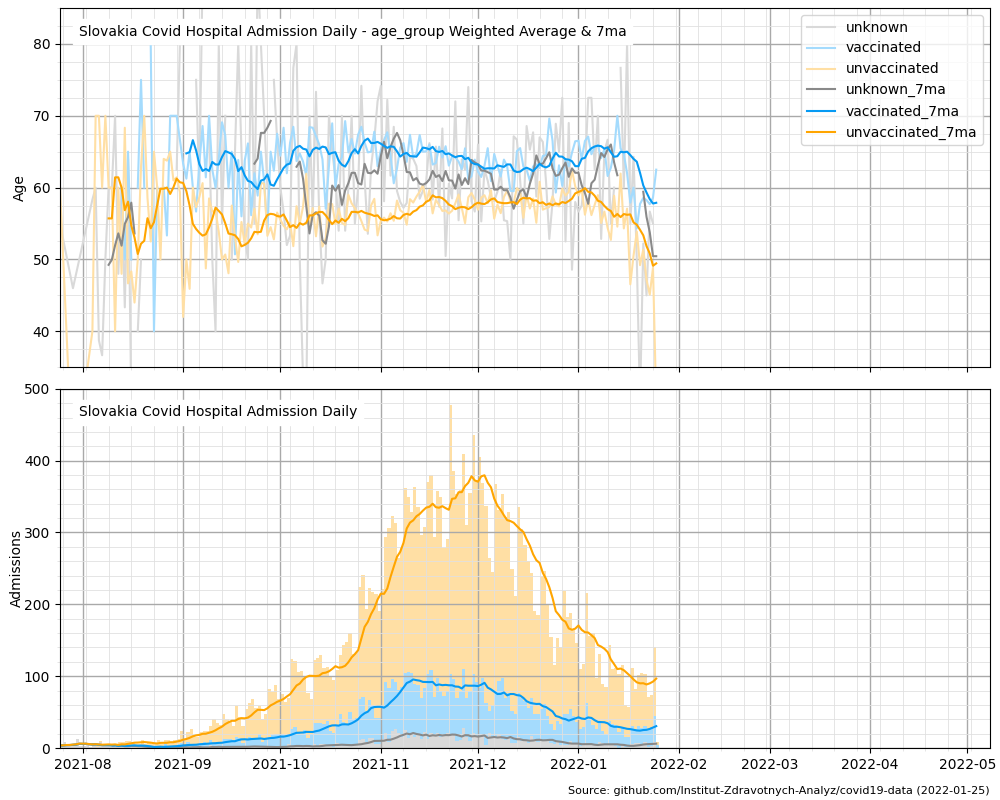
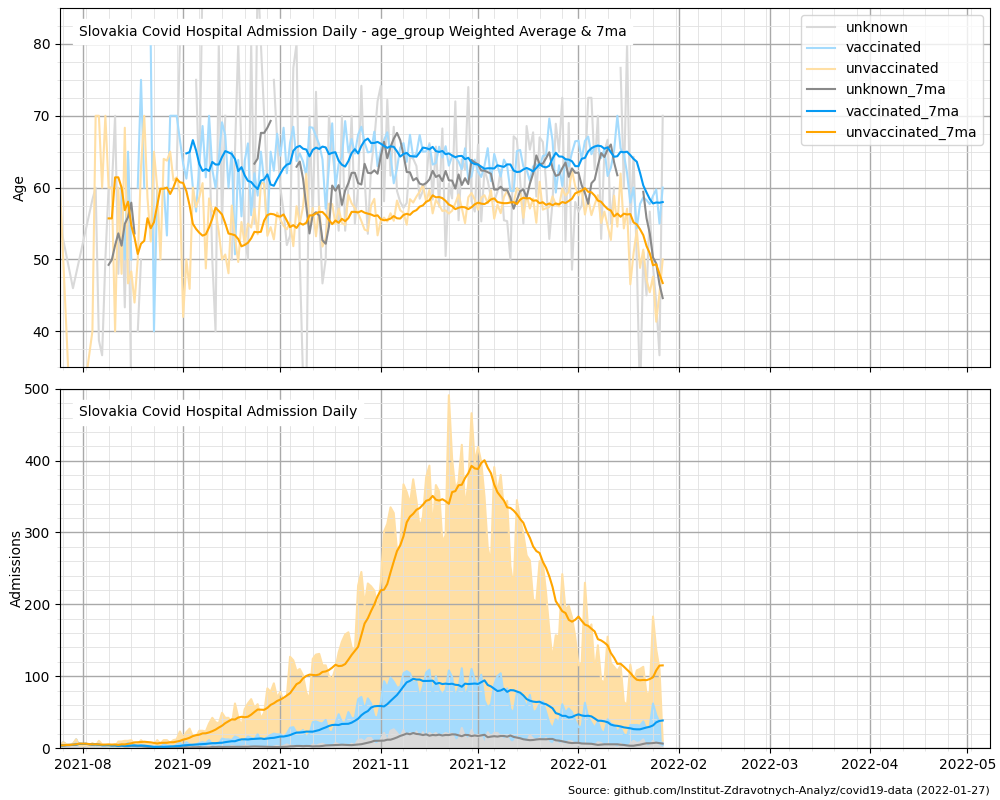
Update 2022-01-28 Tweaked Hospitalizations/Admissions_Age_WAverage_by_Vaccine_Daily.py Updated figures

Changed region(s): [[0.155, 0.5, 0.682, 0.9375], [0.651, 0.3125, 0.682, 0.4375], [0.651, 0.2188, 0.682, 0.2812]]

diff --git a/Hospitalizations/Admissions_Age_WAverage_by_Vaccine_Daily.py b/Hospitalizations/Admissions_Age_WAverage_by_Vaccine_Daily.py
@@ -32,8 +32,9 @@ if is_uri_ok(uri):
   # --- Convert date to datetime
   raw['Date'] = raw['Date'].apply(pd.to_datetime)
 
-  # Replace NA vaccinated status with unknown
-  raw['Vaccinated'] = raw['Vaccinated'].fillna(value='unknown')
+  # --- Cleansing raw
+  raw['Vaccinated'] = raw['Vaccinated'].fillna(value='unknown') # Replace NaN with word unknown
+  #raw['age_group'] = raw['age_group'].fillna(value=55) # Replace NaN with value 55 (average age of unvaccinated COVID-19 patient) - currently in use in Daily admissions axis only
 
   # --- Sum Vaccine status (True/False) on Admissions - Axis 0
   p = pd.pivot_table(raw, index=['Date', 'age_group'] , columns=['Vaccinated'], values='Admissions', aggfunc=np.sum, fill_value=0, dropna=False)
@@ -68,10 +69,14 @@ if is_uri_ok(uri):
   result['unknown_7ma'] = result['unknown'].rolling(7, closed='left').mean()
 
   # --- Sum admissions Daily - Axis 1
+  raw['age_group'] = raw['age_group'].fillna(value=55) # Cleanse raw
+  pA = pd.pivot_table(raw, index=['Date', 'age_group'] , columns=['Vaccinated'], values='Admissions', aggfunc=np.sum, fill_value=0, dropna=False)
+  pA = pA.rename(columns={False:'unvaccinated', True:'vaccinated'})
+
   resultAD = pd.DataFrame()
-  resultAD['unvaccinated_adm'] = p['unvaccinated'].groupby(level=['Date']).sum()
-  resultAD['vaccinated_adm'] = p['vaccinated'].groupby(level=['Date']).sum()
-  resultAD['unknown_adm'] = p['unknown'].groupby(level=['Date']).sum()
+  resultAD['unvaccinated_adm'] = pA['unvaccinated'].groupby(level=['Date']).sum()
+  resultAD['vaccinated_adm'] = pA['vaccinated'].groupby(level=['Date']).sum()
+  resultAD['unknown_adm'] = pA['unknown'].groupby(level=['Date']).sum()
 
   # - Moving average
   resultAD['unvaccinated_adm_7ma'] = resultAD['unvaccinated_adm'].rolling(7, closed='left').mean()
@@ -123,10 +128,12 @@ if is_uri_ok(uri):
 
   # 1. Axis - Daily admissions
   ax = axs[1]
-  ax.bar(resultAD.index, resultAD['unknown_adm'].values, width=1, align='edge')
-  ax.bar(resultAD.index, resultAD['vaccinated_adm'].values, bottom=resultAD['unknown_adm'].values, width=1, align='edge')
-  ax.bar(resultAD.index, resultAD['unvaccinated_adm'].values, bottom=resultAD['unknown_adm'].values+resultAD['vaccinated_adm'].values, width=1, align='edge')
-  ax.set_prop_cycle(color=['#898989','#069af3','#ffa500'])
+  ax.plot(resultAD['unknown_adm'], label='unknown_adm')
+  ax.plot(resultAD[['vaccinated_adm', 'unknown_adm']].sum(axis=1), label='vaccinated_adm')
+  ax.plot(resultAD[['unvaccinated_adm', 'unknown_adm', 'vaccinated_adm']].sum(axis=1), label='unvaccinated_adm')
+  ax.fill_between(x=resultAD['unknown_adm'].index, y1=resultAD['unknown_adm'].values)
+  ax.fill_between(x=resultAD['vaccinated_adm'].index, y1=resultAD[['vaccinated_adm', 'unknown_adm']].sum(axis=1), y2=resultAD['unknown_adm'].values)
+  ax.fill_between(x=resultAD['unvaccinated_adm'].index, y1=resultAD[['unvaccinated_adm', 'unknown_adm', 'vaccinated_adm']].sum(axis=1), y2=resultAD[['vaccinated_adm', 'unknown_adm']].sum(axis=1))
   ax.plot(resultAD['unknown_adm_7ma'], label='unknown_7ma')
   ax.plot(resultAD[['vaccinated_adm_7ma', 'unknown_adm_7ma']].sum(axis=1), label='vaccinated_7ma')
   ax.plot(resultAD[['unvaccinated_adm_7ma', 'unknown_adm_7ma', 'vaccinated_adm_7ma']].sum(axis=1), label='unvaccinated_7ma')

diff --git a/CHANGELOG.md b/CHANGELOG.md
@@ -6,6 +6,7 @@ All notable changes to this project will be documented in this file.
 
 ### Updated
 - Updated workflow daily-figures-update.yaml
+- Updated Admissions_Age_WAverage_by_Vaccine_Daily.py - Daily admissions axis plot changed from bars to filled area, fixed raw data by cleansing NaN
 
 ## 1.0.3 - 2022-01-26
 
